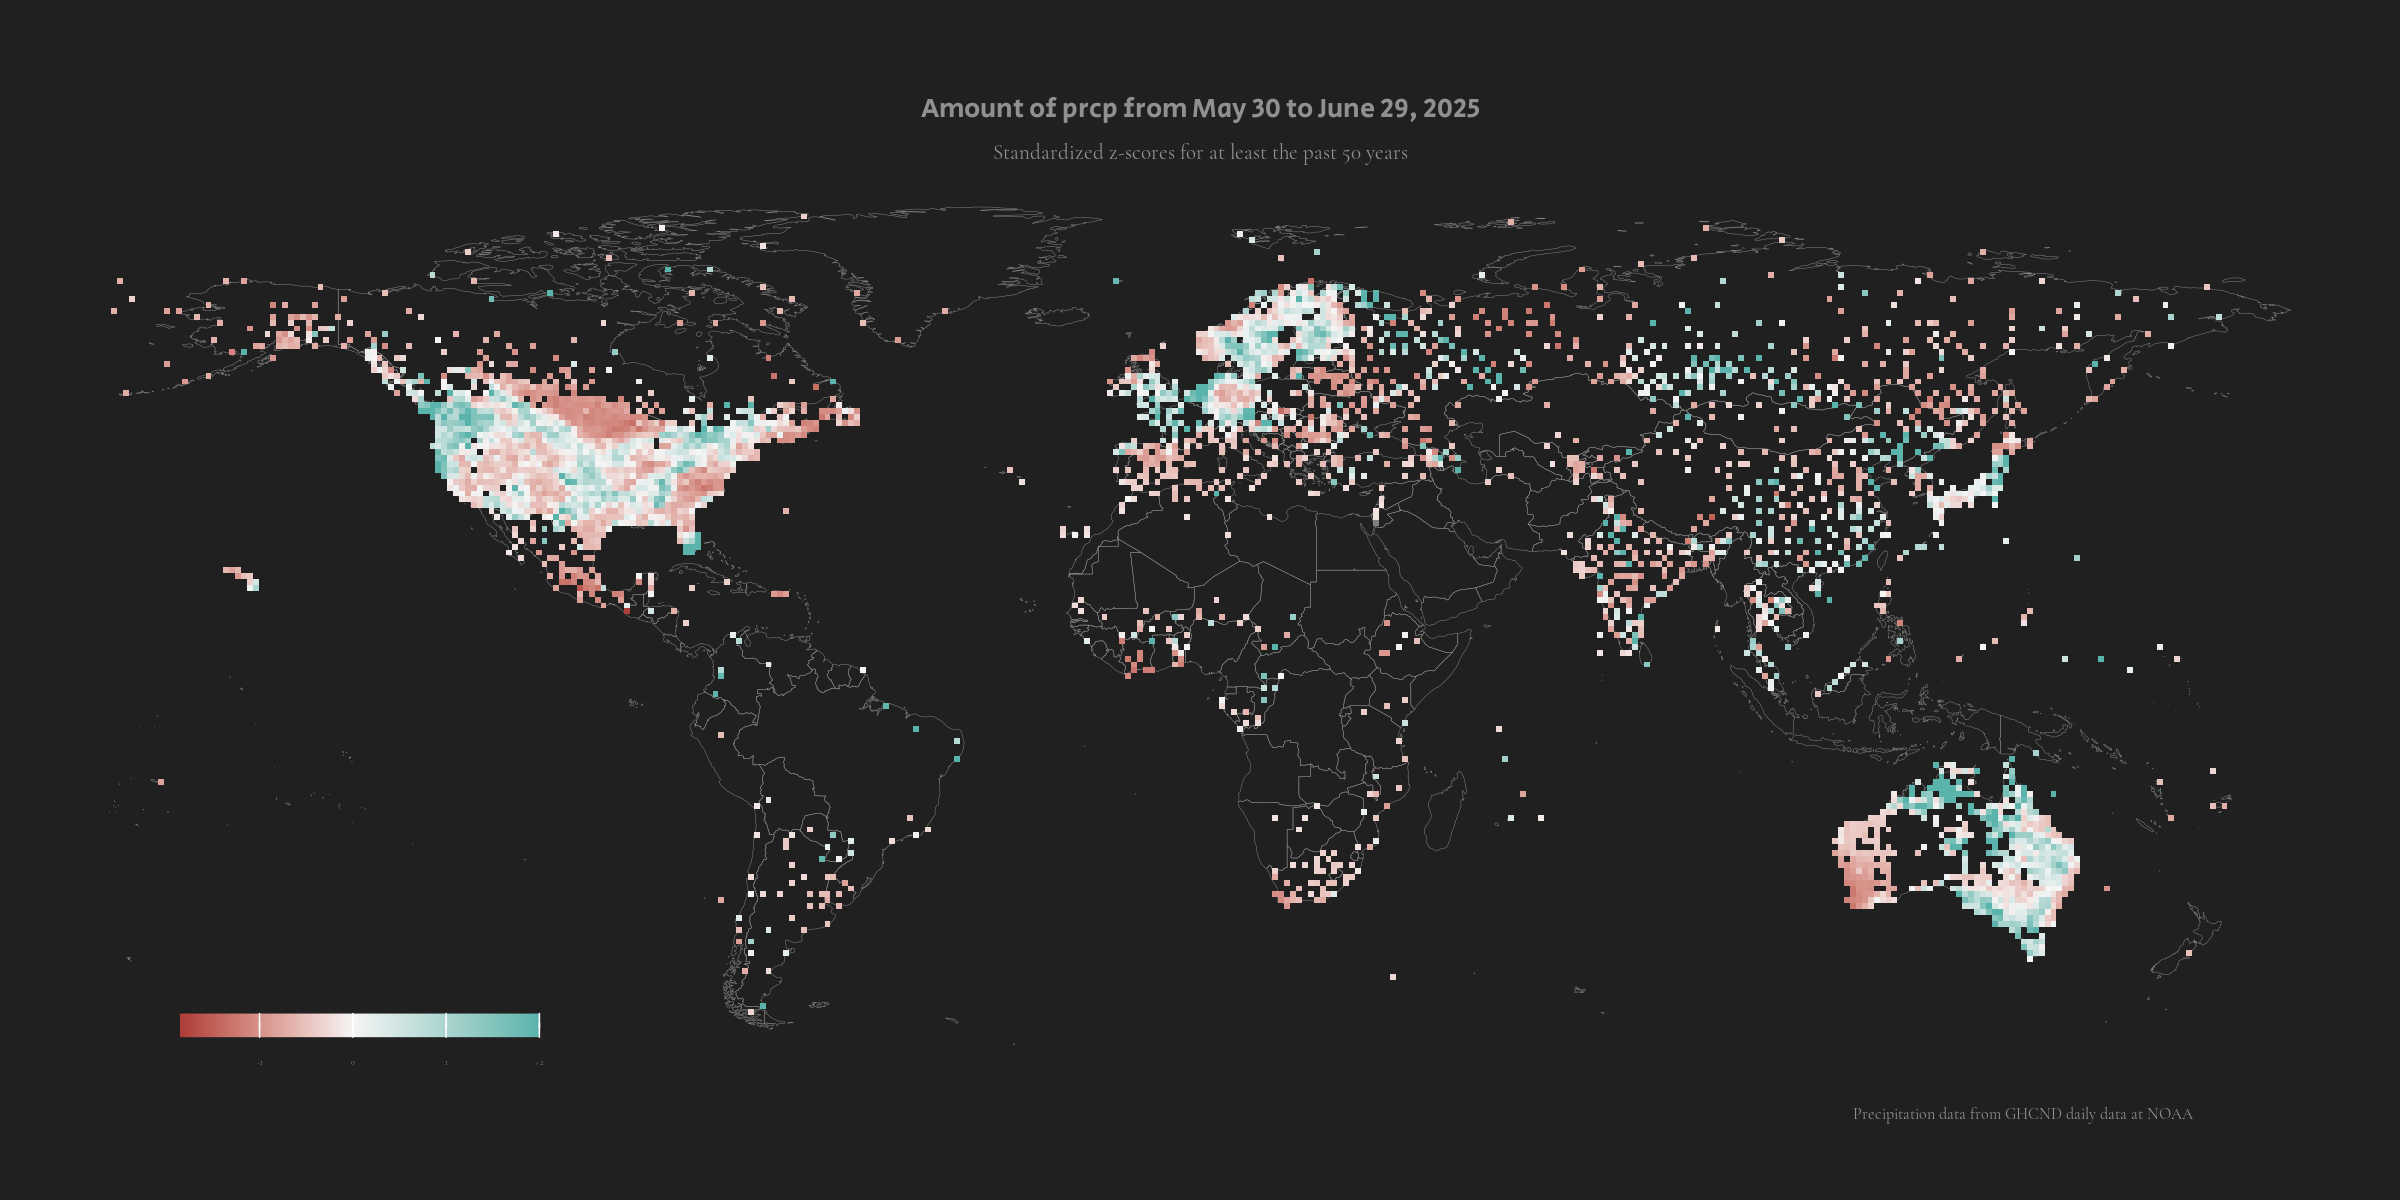
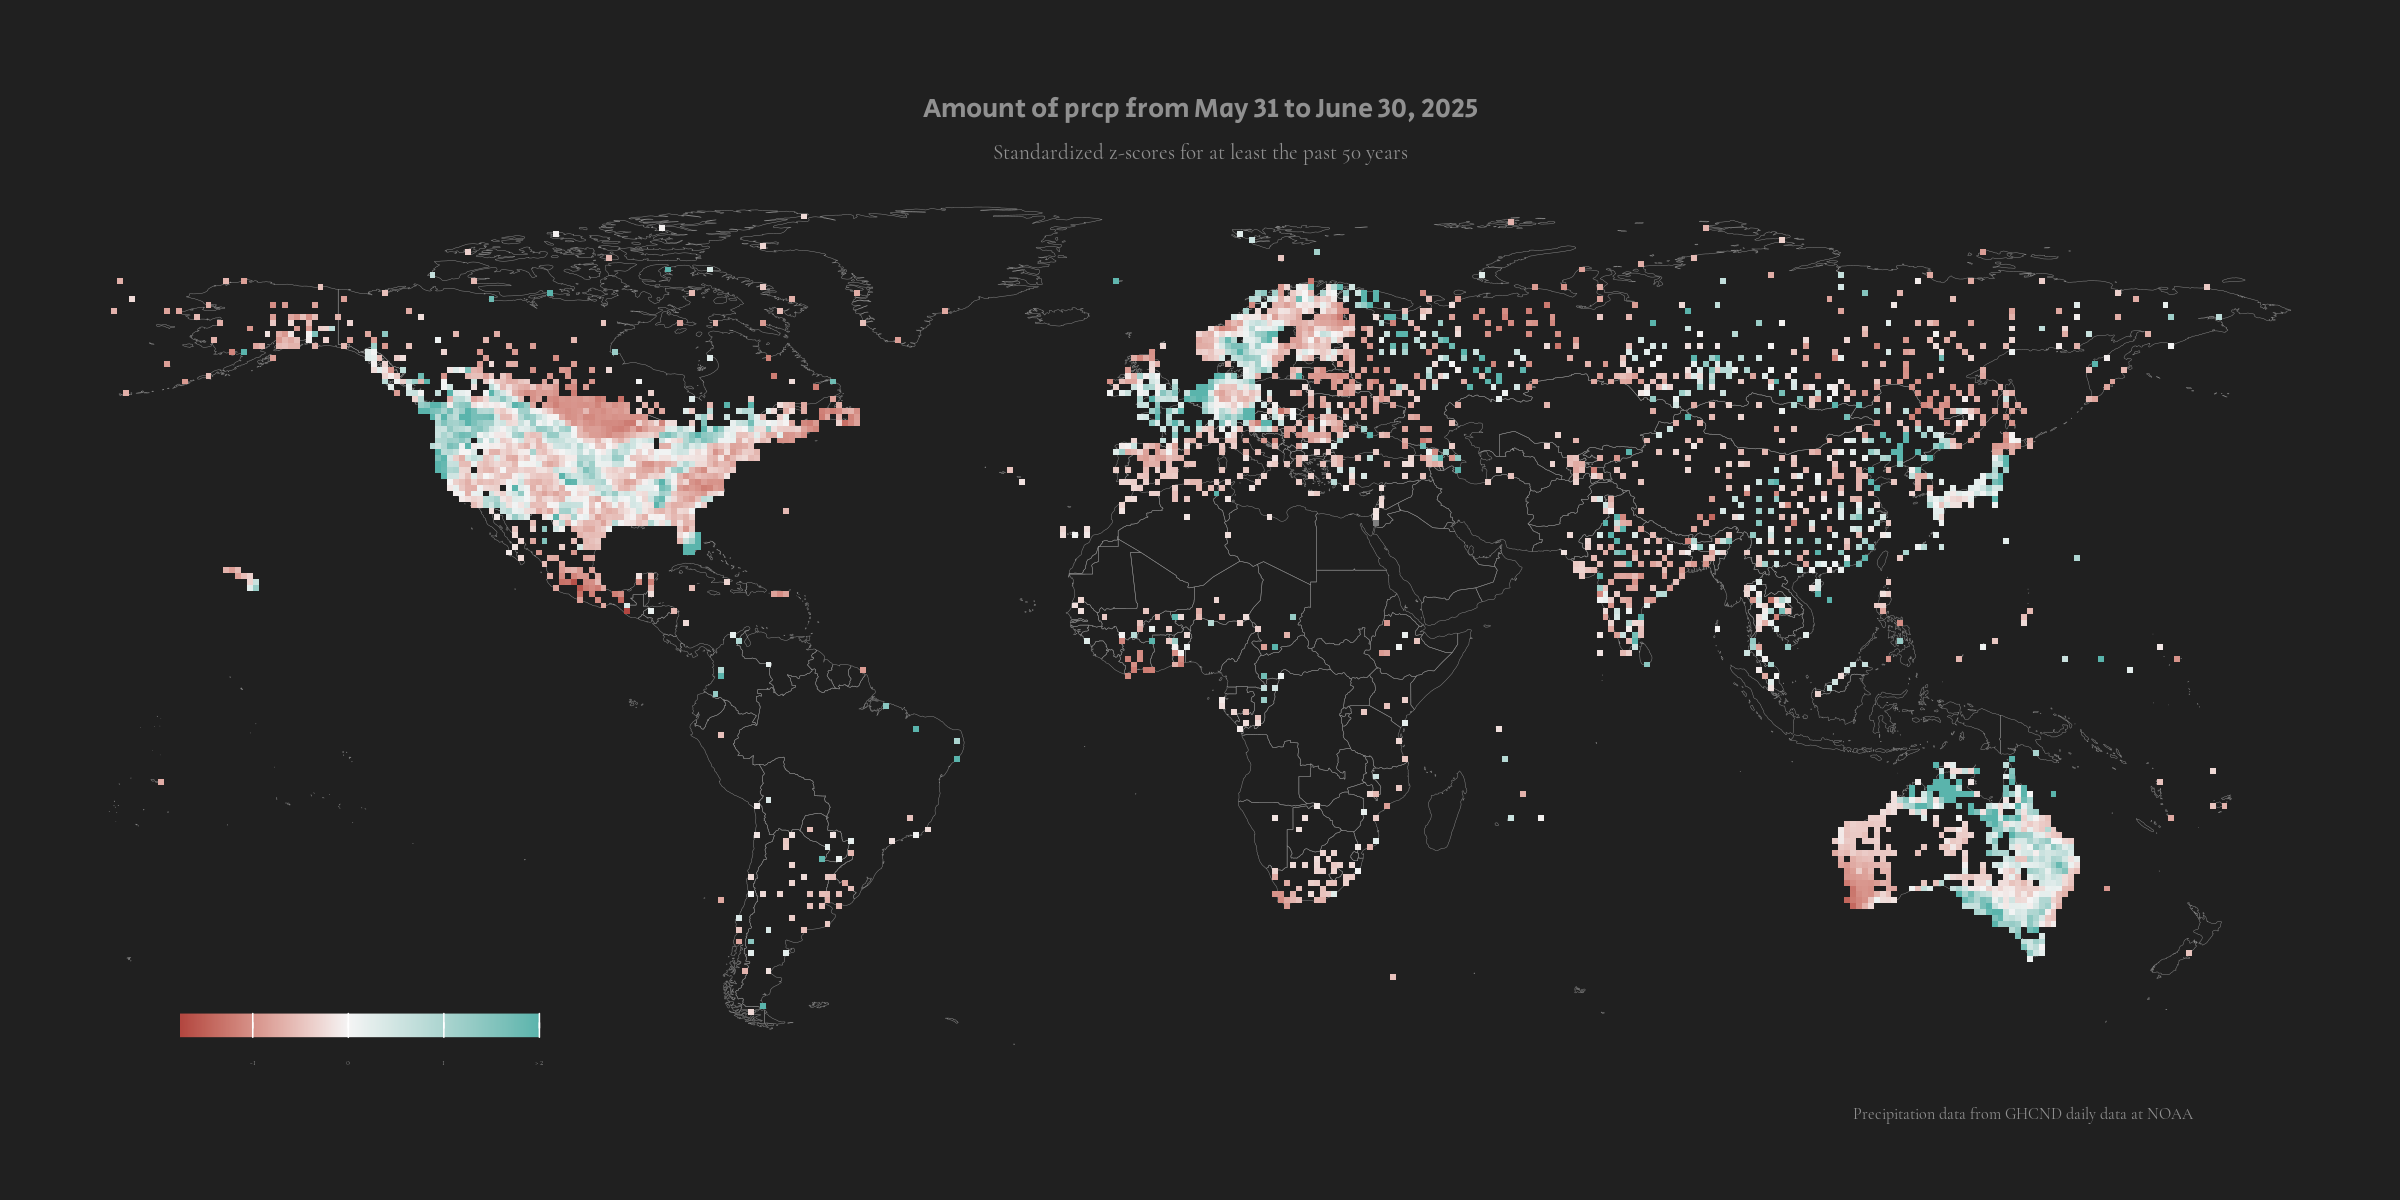
new day's rendering

diff --git a/index.html b/index.html
@@ -52,7 +52,7 @@ ul.task-list li input[type="checkbox"] {
 <div class="column-screen">
 <p><img src="visuals/heatmap_world_drought.png" class="img-fluid"></p>
 </div>
-<p>Last updated July 4, 2025.</p>
+<p>Last updated July 5, 2025.</p>
 <p>This <a href="https://esbenlykke.github.io/drought_index/">site</a> is part of a project to pratice reproducible research developed by <a href="mailto:%20eskovgaard@health.sdu.dk">Esben Lykke</a>.</p>
 
 </main>
